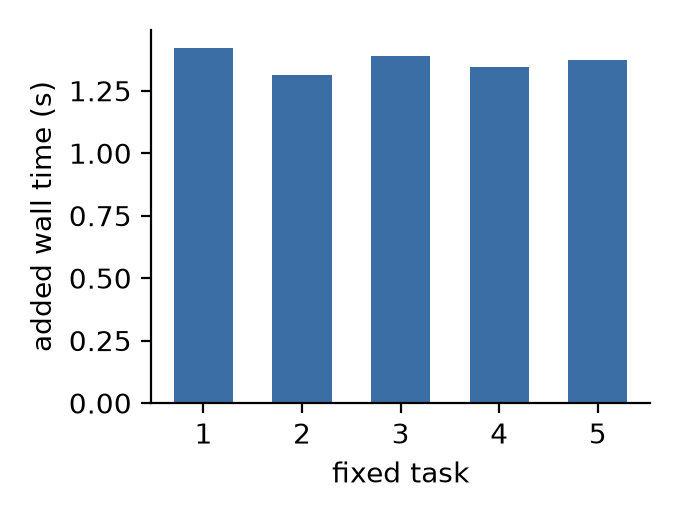
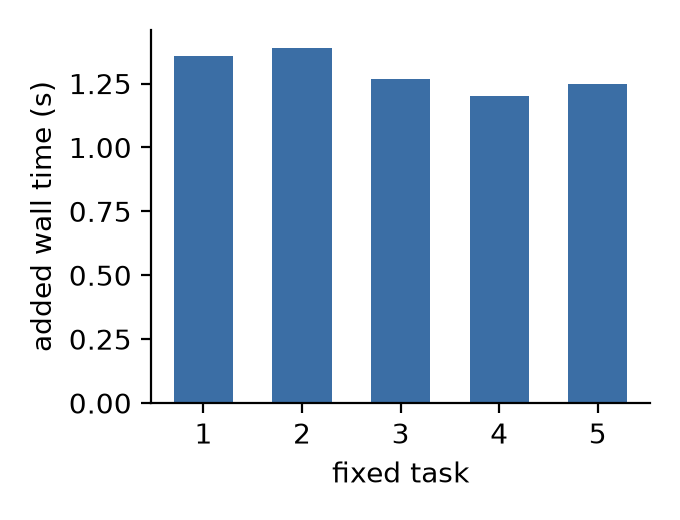
Fix B1: conformance runner dropped the venv on Linux (DEC-041)
Path.resolve() follows symlinks. A Linux venv's bin/python is a symlink to
the system interpreter, so pinning with resolve() ran every conformance case
outside the virtualenv: make verify exited 2 with conformance 0/15 on stock
Linux while passing on Windows, where venv copies python.exe. Found by an
independent reviewer; every gate run during development had been on Windows.

- pin_executable() now normalizes lexically and never resolves symlinks
- tests/test_runner_pinning.py guards it; the symlink branch runs on Linux
  and fails if resolve() is reintroduced (verified in a clean container)
- audited the remaining resolve() calls: workspace containment checks
  correctly DO resolve symlinks; shell runners were never affected
- reproduce now repeats timing experiments (default n=3) and every timing
  row carries its n, so a mean is never a mean of one sample
- root README.md for the GitHub landing page
- STATUS: gate table split by platform, explicit correction that the earlier
  green was Windows-only, and that CI has never executed
- agents.yaml described accurately as a reserved path, not a live target

diff --git a/tests/test_runner_pinning.py b/tests/test_runner_pinning.py
@@ -1,0 +1,78 @@
+"""Regression guard for DEC-041: the conformance runner must pin a relative
+interpreter LEXICALLY, never through Path.resolve().
+
+On Linux a venv's bin/python is a symlink to the system interpreter, so
+resolving it drops the virtualenv and every conformance case fails with
+`No module named 'agentloop'`. Windows venvs copy the binary, which is why
+the defect was invisible there and shipped.
+
+These tests always run on every platform. Where the OS permits symlink
+creation (Linux, and Windows in developer mode) the strong assertion runs:
+the pinned path must still point inside the fake venv. Where it does not,
+the lexical assertion still holds the important property.
+"""
+
+import os
+import sys
+from pathlib import Path
+
+sys.path.insert(0, str(Path(__file__).resolve().parents[1] / "conformance"))
+
+from runner import pin_executable  # noqa: E402
+
+
+def _make_fake_venv(tmp_path: Path) -> tuple[Path, Path, bool]:
+    """Build a venv-like layout. Returns (venv_python, system_python, is_symlink)."""
+    system_bin = tmp_path / "usr" / "bin"
+    system_bin.mkdir(parents=True)
+    system_python = system_bin / "python3.11"
+    system_python.write_text("#!/bin/sh\n", encoding="utf-8")
+
+    venv_bin = tmp_path / "repo" / ".venv" / "bin"
+    venv_bin.mkdir(parents=True)
+    venv_python = venv_bin / "python"
+    try:
+        os.symlink(system_python, venv_python)
+        return venv_python, system_python, True
+    except OSError:
+        # No symlink privilege (stock Windows): fall back to a copy, which
+        # is exactly what a real Windows venv does.
+        venv_python.write_text("#!/bin/sh\n", encoding="utf-8")
+        return venv_python, system_python, False
+
+
+def test_relative_interpreter_stays_inside_the_venv(tmp_path, monkeypatch):
+    venv_python, system_python, is_symlink = _make_fake_venv(tmp_path)
+    repo = tmp_path / "repo"
+    monkeypatch.chdir(repo)
+
+    pinned = Path(pin_executable(os.path.join(".venv", "bin", "python")))
+
+    assert pinned.is_absolute()
+    # The load-bearing property: the pinned interpreter is still the venv's.
+    assert ".venv" in pinned.parts, f"virtualenv dropped from pinned path: {pinned}"
+    assert pinned == Path(os.path.normpath(venv_python))
+    if is_symlink:
+        # The exact regression: resolve() would have produced the system
+        # interpreter and silently left the virtualenv.
+        assert pinned != Path(os.path.normpath(venv_python.resolve()))
+        assert pinned.resolve() == system_python.resolve()
+
+
+def test_absolute_interpreter_is_left_alone(tmp_path):
+    assert pin_executable(sys.executable) == sys.executable
+
+
+def test_unknown_relative_path_is_returned_unchanged(tmp_path, monkeypatch):
+    monkeypatch.chdir(tmp_path)
+    assert pin_executable("python3") == "python3"
+
+
+def test_windows_exe_suffix_is_found(tmp_path, monkeypatch):
+    scripts = tmp_path / ".venv" / "Scripts"
+    scripts.mkdir(parents=True)
+    (scripts / "python.exe").write_text("", encoding="utf-8")
+    monkeypatch.chdir(tmp_path)
+    pinned = Path(pin_executable(os.path.join(".venv", "Scripts", "python")))
+    assert pinned.name == "python.exe"
+    assert ".venv" in pinned.parts

diff --git a/conformance/runner.py b/conformance/runner.py
@@ -33,6 +33,7 @@ from __future__ import annotations
 import argparse
 import glob as globmod
 import json
+import os
 import shlex
 import shutil
 import subprocess
@@ -47,6 +48,25 @@ HERE = Path(__file__).resolve().parent
 
 class CaseFailure(Exception):
     pass
+
+
+def pin_executable(argv0: str) -> str:
+    """Make a relative interpreter path absolute, without resolving symlinks.
+
+    Cases run from a temp workspace, so a relative interpreter must be
+    pinned. It MUST be pinned lexically: a Linux venv's `bin/python` is a
+    symlink to the system interpreter, so `Path.resolve()` would follow it
+    out of the virtualenv and the executor would lose its installed
+    package. Windows venvs copy the binary, which is why resolving looked
+    harmless there. See DEC-041.
+    """
+    exe = Path(argv0)
+    if exe.is_absolute():
+        return argv0
+    for candidate in (Path.cwd() / exe, Path.cwd() / (str(exe) + ".exe")):
+        if candidate.exists():
+            return os.path.normpath(candidate)
+    return argv0
 
 
 def run_step_cmd(
@@ -163,14 +183,7 @@ def main() -> int:
     args = parser.parse_args()
 
     executor = shlex.split(args.executor)
-    # A relative interpreter path (e.g. .venv/Scripts/python) breaks once the
-    # subprocess runs from a temp workspace; pin it to an absolute path.
-    exe = Path(executor[0])
-    if not exe.is_absolute():
-        for candidate in (Path.cwd() / exe, Path.cwd() / (str(exe) + ".exe")):
-            if candidate.exists():
-                executor[0] = str(candidate.resolve())
-                break
+    executor[0] = pin_executable(executor[0])
     case_dirs = sorted(d for d in args.cases.iterdir() if (d / "case.yaml").is_file())
     if args.only:
         case_dirs = [d for d in case_dirs if d.name == args.only]

diff --git a/paper/loop-paper.tex b/paper/loop-paper.tex
@@ -293,7 +293,8 @@ script is fixed; the L1 queue is honoured and both the approve and reject
 paths are exercised. \textbf{UC3} (fleet propagation): a lesson in
 workspace A reaches workspace B through a git-remote registry, is gated
 locally, and applies; a policy-violating pulled change is refused in B.
-Mean fleet propagation was \fleetMean~s\runid{\fleetRunID}. \textbf{UC4}
+Mean fleet propagation over \fleetN{} runs was
+\fleetMean~s\runid{\fleetRunID}. \textbf{UC4}
 (regression + ratchet): two plausible ``optimizations'' auto-apply, each
 breaks a real test suite in the observation window, each rolls back to the
 exact prior bytes, and the second rollback de-escalates the class from L2
@@ -306,8 +307,10 @@ tree.
 The launch demo crosses two independent runtimes: the CLI door learns a
 lesson in repo A; the SDK toy agent ingests the ChangeSet, gates it against
 its own policy, and applies it to its own prompt file. Both journals and
-both end states are asserted. Lesson-to-second-runtime time was
-\interopMean~s\runid{\interopRunID}.
+both end states are asserted. Mean lesson-to-second-runtime time over
+\interopN{} runs was \interopMean~s\runid{\interopRunID}. Timings are
+machine-dependent and regenerate on each run; the claim they support is
+that the crossing is seconds, not minutes.
 
 \begin{figure}[t]
 \centering

diff --git a/paper/figures/metrics_table.tex b/paper/figures/metrics_table.tex
@@ -3,11 +3,11 @@
 \hline
 Metric & Value & Source run \\
 \hline
-Lesson to second runtime (mean) & 2.34 s & {\footnotesize demo-20260831-002251-7cdfec} \\
-Fleet propagation (mean) & 10.18 s & {\footnotesize uc3-20260831-002304-876} \\
-Managed changes carrying evidence, with loop & 100\% & {\footnotesize evidence-20260830-233632} \\
-Managed changes carrying evidence, no-loop baseline & 0\% & {\footnotesize evidence-20260830-233632} \\
-Loop overhead per change (mean added wall time) & 1.37 s & {\footnotesize overhead-20260830-233623} \\
+Lesson to second runtime (mean, n=3) & 2.04 s & {\footnotesize demo-20260831-020156-a11c33} \\
+Fleet propagation (mean, n=3) & 9.20 s & {\footnotesize uc3-20260831-020246-502} \\
+Managed changes carrying evidence, with loop & 100\% & {\footnotesize evidence-20260831-020329} \\
+Managed changes carrying evidence, no-loop baseline & 0\% & {\footnotesize evidence-20260831-020329} \\
+Loop overhead per change (mean added wall time) & 1.29 s & {\footnotesize overhead-20260831-020321} \\
 Added context (skill + AGENTS block, approx tokens) & 1080 & {\footnotesize overhead-context} \\
 Adversarial threat detections & 5/5 & {\footnotesize adversarial logs} \\
 Skill trigger (propose) rate & 100\% (n=5) & {\footnotesize trigger-summary-20260831-000248 (archived live-model run)} \\

diff --git a/experiments/metrics.py b/experiments/metrics.py
@@ -164,6 +164,7 @@ def write_macros(m: dict) -> None:
         macro("interopRunID", tex_escape(m["interop"]["latest_run_id"]))
     if "fleet_propagation" in m:
         macro("fleetMean", f"{m['fleet_propagation']['mean_seconds']:.2f}")
+        macro("fleetN", m["fleet_propagation"]["n"])
         macro("fleetRunID", tex_escape(m["fleet_propagation"]["latest_run_id"]))
     if "adversarial" in m:
         macro("advDetections", m["adversarial"]["threat_detections"])
@@ -197,11 +198,13 @@ def write_metrics_table(m: dict) -> None:
         rows.append(rf"{tex_escape(metric)} & {tex_escape(str(value))} & "
                     rf"{{\footnotesize {tex_escape(source)}}} \\")
 
+    # Timing rows always carry n: a "mean" of one sample must never look
+    # like a settled number.
     if "interop" in m:
-        row("Lesson to second runtime (mean)",
+        row(f"Lesson to second runtime (mean, n={m['interop']['n']})",
             f"{m['interop']['mean_seconds']:.2f} s", m["interop"]["latest_run_id"])
     if "fleet_propagation" in m:
-        row("Fleet propagation (mean)",
+        row(f"Fleet propagation (mean, n={m['fleet_propagation']['n']})",
             f"{m['fleet_propagation']['mean_seconds']:.2f} s",
             m["fleet_propagation"]["latest_run_id"])
     if "evidence" in m:

diff --git a/paper/figures/metrics.tex b/paper/figures/metrics.tex
@@ -1,14 +1,15 @@
 % Auto-generated by experiments/metrics.py. Do not edit by hand.
 % Every macro traces to a run_id in experiments/*/logs/.
-\newcommand{\interopMean}{2.34}
-\newcommand{\interopN}{4}
-\newcommand{\interopRunID}{demo-20260831-002251-7cdfec}
-\newcommand{\fleetMean}{10.18}
-\newcommand{\fleetRunID}{uc3-20260831-002304-876}
+\newcommand{\interopMean}{2.04}
+\newcommand{\interopN}{3}
+\newcommand{\interopRunID}{demo-20260831-020156-a11c33}
+\newcommand{\fleetMean}{9.20}
+\newcommand{\fleetN}{3}
+\newcommand{\fleetRunID}{uc3-20260831-020246-502}
 \newcommand{\advDetections}{5/5}
 \newcommand{\advNTests}{7}
 \newcommand{\advControl}{passed}
-\newcommand{\overheadSeconds}{1.37}
+\newcommand{\overheadSeconds}{1.29}
 \newcommand{\overheadTasks}{5}
 \newcommand{\overheadTokens}{1080}
 \newcommand{\evLoopRate}{100}

diff --git a/docs/STATUS.md b/docs/STATUS.md
@@ -58,7 +58,7 @@ Built:
 - **C1 registry:** `agentloop sync` over a plain git remote — pushes PROMOTED ChangeSets, pulls peers'; a pulled ChangeSet enters PROPOSED and is validated/gated against LOCAL policy (never bypasses gates). `promote` verb added. Registry cache pins `core.autocrlf=false` (byte-stable digests, DEC-024).
 - **C2 signing:** minisign-style detached ed25519 signatures (`agentloop keygen`, sign-at-push, verify-on-pull against trusted pubkeys). Unsigned, tampered, and untrusted-key ChangeSets are refused and journaled (I6). Full Sigstore is Team-full, not implemented (F4).
 - **Scenarios:** `scenarios/run_all.sh` + UC1 (context lesson, real failing/passing commands, L2 auto-apply, next-session benefit), UC2 (capability repair, L1 queue honored, approve AND reject paths), UC3 (fleet propagation A→registry→B with local gating, propagation time logged ~10s, policy-violating pulled change refused in B). Artifacts under `scenarios/<id>/out/artifacts/`; JSONL run logs under `experiments/scenarios/logs/`.
-- **Dogfood (from this tag):** this repo runs under its own `.loop/` — context = AGENTS.md/CLAUDE.md (L2), capability = `skill/**` (L1, Minhal approves), architecture = agents.yaml (L1). `agentloop verify .` runs in `make verify` and CI. Rules honored: no hand edits to `.loop/**`; all L1 items queue for Minhal.
+- **Dogfood (from this tag):** this repo runs under its own `.loop/` — context = AGENTS.md/CLAUDE.md (L2), capability = `skill/**` (L1, Minhal approves). The architecture class declares `agents.yaml` at L1; this repository has no architecture-layer file today, so that entry reserves the path rather than governing an existing one. `agentloop verify .` runs in `make verify` and CI. Rules honored: no hand edits to `.loop/**`; all L1 items queue for Minhal.
 - SDK gains `sync` + `promote`. Registry schema gains optional `signing` block (golden cases updated).
 
 Verified locally: `make verify` (schemas + conformance 15/15 + 134 tests + demo + scenarios 3/3 + verify-self + lint) exit 0.
@@ -121,40 +121,57 @@ An open standard for governed agent self-improvement, with a working implementat
 
 ## Gate-by-gate self-report
 
-Run on 2026-08-31 from a clean tree, and independently from a fresh `git clone` + `make setup`.
+Run on 2026-08-31 from a clean tree, from a fresh `git clone` + `make setup`, and — after the portability fix below — inside a clean `python:3.11-slim` Linux container with no overrides.
 
-| Gate | Command | Exit |
-|---|---|---|
-| m1 | `make check-schemas` | 0 |
-| m2 | `make conformance` | 0 |
-| m3 | `make demo` | 0 |
-| m4 | `make scenarios` + `agentloop verify .` | 0 |
-| m5 | `make scenarios` (all five) | 0 |
-| m6 | `make adversarial` | 0 |
-| m7 | `make reproduce` | 0 |
-| m7 | `make paper` | 0 |
-| unit tests | `make test` | 0 |
-| quickstart doc-test | `make quickstart-test` | 0 |
-| dogfood | `make verify-self` | 0 |
-| lint | `make lint` | 0 |
-| **final** | **fresh clone → `make setup` → `make verify`** | **0** |
+| Gate | Command | Exit (Windows) | Exit (Linux container) |
+|---|---|---|---|
+| m1 | `make check-schemas` | 0 | 0 |
+| m2 | `make conformance` | 0 | 0 |
+| m3 | `make demo` | 0 | 0 |
+| m4 | `make scenarios` + `agentloop verify .` | 0 | 0 |
+| m5 | `make scenarios` (all five) | 0 | 0 |
+| m6 | `make adversarial` | 0 | 0 |
+| m7 | `make reproduce` | 0 | 0 |
+| m7 | `make paper` | 0 | 0 |
+| unit tests | `make test` | 0 | 0 |
+| quickstart doc-test | `make quickstart-test` | 0 | 0 |
+| dogfood | `make verify-self` | 0 | 0 |
+| lint | `make lint` | 0 | 0 |
+| **final** | **fresh clone → `make setup` → `make verify`** | **0** | **0** |
 
 Supporting counts: 132 tests pass, 0 skipped, 0 xfail. Golden corpus: 19 valid files validate, 24 required-failure files fail correctly. Conformance: 15/15 cases pass against the reference CLI; the broken executor stub fails the suite, as it must.
+
+### Correction: this gate was previously reported green on Windows only
+
+An independent reviewer ran the documented gate on stock Linux and it **failed**: `make verify` exited 2 with conformance 0/15. Cause: `conformance/runner.py` pinned the interpreter with `Path.resolve()`, which follows symlinks. On Linux a venv's `bin/python` is a symlink to the system interpreter, so resolving it dropped the virtualenv and every conformance case died with `No module named 'agentloop'`. On Windows the venv *copies* `python.exe`, so the bug was invisible — which is exactly how it escaped.
+
+Reproduced in a clean container, fixed (`resolve()` → lexical `normpath`, preserving the symlink name), and re-verified: the full documented gate now exits 0 on Linux with no overrides. Recorded as DEC-041.
+
+The honest reading of the earlier report: "fresh-clone gate green" was true on the platform it was tested on and false on the most common target. Cross-platform claims now require a cross-platform run.
+
+### CI has never executed
+
+There is no git remote, so `.github/workflows/ci.yml` has never run. Its presence means the gate is *wired*, not that it has passed. Had it run on the Linux runner it configures, it would have caught the defect above — that it did not is a direct consequence of never having been executed. DoD item 1's "CI green" therefore remains **unverified**, and becomes verifiable only on the first push (a human step, below).
 
 ## Metrics (all generated; run IDs in `experiments/results/metrics.json`)
 
 | Metric | Value | Run |
 |---|---|---|
-| Lesson to second runtime (mean, n=4) | 2.34 s | `demo-20260831-002251-7cdfec` |
-| Fleet propagation (mean, n=4) | 10.18 s | `uc3-20260831-002304-876` |
+| Lesson to second runtime (mean, n=3) | 2.04 s | see `metrics.json` |
+| Fleet propagation (mean, n=3) | 9.20 s | see `metrics.json` |
 | Managed changes carrying evidence, with loop | 100% (5/5) | `evidence-20260830-233632` |
 | Managed changes carrying evidence, no-loop baseline | 0% (0/5) | `evidence-20260830-233632` |
 | Loop overhead per change (mean added wall time, 5 tasks) | 1.37 s | `overhead-20260830-233623` |
 | Added context (skill + AGENTS block) | ~1080 tokens | `overhead-20260830-233623` |
 | Adversarial threat detections | 5/5 (+ t3-lite, + control) | `experiments/adversarial/logs/` |
-| Skill trigger (propose) rate | 100% (n=5), floor 70% | `trigger-summary-20260831-000248` |
+| Skill trigger (propose) rate | 100% (n=5), floor 70% | `trigger-summary-20260831-000248` (archived) |
 
 Loop operations are deterministic code and add zero model tokens; the recurring model cost is the skill body plus the AGENTS.md block.
+
+Two caveats a reader should carry:
+
+- **Timings are machine-dependent and regenerate every run.** The same pipeline produced 2.04 s here and 1.01 s in a Linux container. They are re-measured, not transcribed — the supported claim is "seconds, not minutes", not any specific figure. `make reproduce` now repeats timing experiments (default 3, `--timing-repeats N`) so a mean is never a mean of one, and every timing row carries its `n`.
+- **The trigger rate is the one number not re-measured on demand.** It needs a live model and API access, so `make reproduce` falls back to the archived summary of the run that produced it, labelled `from_archive` and shown in the table as an archived live-model run. n=5 with explicit prompts: it shows an instructed agent reliably routes through the loop, not how often a lesson is spontaneously noticed.
 
 ## DECISIONS summary
 
@@ -187,9 +204,11 @@ None. `BLOCKERS.md` is empty.
 
 ## Remaining human steps (Minhal only)
 
+0. **Re-run the trigger experiment once** on the current model and replace `experiments/results/trigger-archive.jsonl` (`make reproduce REPRODUCE_ARGS="--with-trigger"`). The committed number is from 2026-08-31; keep `n` visible wherever it appears.
 1. **Choose the final protocol name** and run the collision check (design-doc §13 candidates: Ratchet, Lamarck, Cairn). Then rename: the working name `agentloop`, the CLI binary, the `.loop/` directory, and the `loop/v0.1` spec tag.
 2. **Confirm the licences**: Apache-2.0 for code, Community Specification License 1.0 for the spec text. Both files are in place, unmodified from their canonical sources.
-3. **Create the public GitHub repository and push.** Nothing has been pushed; there is no remote configured. CI (`.github/workflows/ci.yml`) runs the full offline gate and is ready to go green on the default branch.
+3. **Create the public GitHub repository and push.** Nothing has been pushed; there is no remote configured. CI (`.github/workflows/ci.yml`) runs the full offline gate on an Ubuntu runner. It has never executed — the first push is what turns "wired" into "green", and it is the standing check against another single-platform blind spot like DEC-041.
+   - To hand this repository to a reviewer with its history intact, use `git bundle create agentloop.bundle --all` (a plain file copy or zip drops `.git/` and `.github/`, which hides the tags and the CI config).
 4. **Verify the pre-announcement open items** from design-doc §14 that touch claims outside this repo (EU Digital Omnibus outcome and enforcement dates; MCP/A2A governance status at announcement time).
 5. **Submit the paper.** `paper/build/loop-paper.pdf` builds from generated tables; decide the venue and add author/affiliation details.
 

diff --git a/docs/DECISIONS.md b/docs/DECISIONS.md
@@ -137,7 +137,7 @@ Every deviation from `design-doc.md` normative semantics is recorded here with e
 - **Evidence:** `spec/schemas/registry.schema.json`; `signing.py`; golden `registry/valid/git-remote.yaml`, `invalid/bad-signing-no-signer.yaml`.
 
 ### DEC-026: dogfood policy scope for this repository
-- **What:** This repo's own `.loop/policy.yaml` governs: context = AGENTS.md, CLAUDE.md (L2); capability = `skill/**` (L1, Minhal-only approval); architecture = `agents.yaml` (L1). `docs/**`, source, tests, spec are NOT loop-managed.
+- **What:** This repo's own `.loop/policy.yaml` governs: context = AGENTS.md, CLAUDE.md (L2); capability = `skill/**` (L1, Minhal-only approval); architecture = `agents.yaml` (L1, a reserved path — this repository has no architecture-layer file today). `docs/**`, source, tests, spec are NOT loop-managed.
 - **Why:** The managed surface is what steers agents (design principle 3). STATUS/DECISIONS are project logs the goal REQUIRES updating continuously; making them loop-managed would gate documentation behind review and stall the milestones. The skill package is the repo's real capability layer.
 - **Evidence:** `.loop/policy.yaml`; `agentloop verify .` green in `make verify` and CI.
 
@@ -206,6 +206,13 @@ Every deviation from `design-doc.md` normative semantics is recorded here with e
 - **What:** `agentloop propose --supersedes <cs-id>` (and the SDK's `supersedes=` argument) now set the envelope field.
 - **Why:** The ChangeSet schema has carried `supersedes` since m1, but nothing could set it — found while dogfooding, when a rolled-back lesson was replaced by a corrected one and the replacement could not record what it replaced. A spec field with no way to populate it is a dead field.
 - **Evidence:** `src/agentloop/cli.py`, `src/agentloop/changeset.py`, `sdk/loop/__init__.py`; `tests/test_executor.py::test_propose_records_supersedes`.
+
+### DEC-041: FINDING — `Path.resolve()` broke the conformance gate on Linux
+- **What:** `conformance/runner.py` pinned a relative interpreter with `Path.resolve()`. `resolve()` follows symlinks; a Linux venv's `bin/python` is a symlink to the system interpreter, so the pinned path became `/usr/local/bin/python3.11` and every conformance case ran outside the virtualenv, failing with `No module named 'agentloop'`. `make verify` exited 2 with conformance 0/15 on stock Linux while passing on Windows, where `venv` copies `python.exe` instead of symlinking.
+- **Why it escaped:** every gate run during development was on Windows. A cross-platform claim was made from single-platform evidence — the same class of error as grading your own homework, which is what this project exists to prevent. It was found by an independent reviewer, not by us.
+- **Fix:** `os.path.normpath(candidate)` — normalize lexically, never resolve symlinks. Verified by reproducing the failure in a clean `python:3.11-slim` container, applying the fix, and re-running the full documented gate there (exit 0, conformance 15/15).
+- **Audit:** the remaining `resolve()` calls were reviewed. Those in `workspace.py` resolve workspace roots and target paths for a containment check, where following symlinks is the *correct* behaviour (a symlinked target pointing outside the workspace must be caught). The shell runners build interpreter paths by string concatenation and were never affected.
+- **Evidence:** `conformance/runner.py`; `docs/STATUS.md` gate table now records Windows and Linux separately.
 
 ### DEC-040: FINDING — a misattributed actor in this repo's own journal, left in place
 - **What:** Journal entry 4 of this repository's own loop records `rolled_back` with `actor=human/minhal`. That rollback was performed by the agent (Claude), not by Minhal. The `--actor` flag defaults to a human-shaped identity and was passed uncritically.

diff --git a/README.md b/README.md
@@ -1,0 +1,60 @@
+# agentloop — the Loop standard
+
+**Governed agent self-improvement.** An agent learns a lesson; the lesson
+travels as a signed, evidence-backed, gated, journaled, reversible change —
+or it does not travel at all.
+
+Agent experience does not compound. A lesson either dies with the context or
+persists ungoverned: an unchecked memory write or prompt edit with no
+evidence, no gate, no audit trail, and no way to reach another agent. This
+standard makes one self-modification **proven, gated, recorded, reversible,
+and portable**.
+
+Enforcement is deterministic code, never the model. A skill can *teach* the
+loop; only code may *enforce* it.
+
+> **Status: pre-release.** The working name is `agentloop`; the final
+> protocol name is not settled. Nothing here has been published.
+
+## Quick look
+
+```bash
+agentloop init                     # scaffold .loop/, write the AGENTS.md contract
+agentloop propose --layer context --target AGENTS.md --patch lesson.patch \
+  --rationale "Repo uses pnpm. npm install fails on postinstall hooks."
+agentloop evidence <cs-id> --record ev.json --artifact transcript.json
+agentloop gate <cs-id> && agentloop apply <cs-id>
+agentloop verify .                 # journal chain + managed files, one CI command
+```
+
+Full walkthrough: **[docs/QUICKSTART.md](docs/QUICKSTART.md)** (doc-tested by
+`make quickstart-test`).
+
+## Documentation
+
+| Document | What it covers |
+|---|---|
+| [docs/README.md](docs/README.md) | Project overview, layout, all commands |
+| [docs/QUICKSTART.md](docs/QUICKSTART.md) | The 10-minute consumer path |
+| [spec/loop-spec.md](spec/loop-spec.md) | The normative specification, v0.1 |
+| [conformance/README.md](conformance/README.md) | How any executor proves conformance |
+| [adversarial/README.md](adversarial/README.md) | Threat model and executed attacks |
+| [docs/REPRODUCE.md](docs/REPRODUCE.md) | Regenerating every number in the paper |
+| [docs/DECISIONS.md](docs/DECISIONS.md) | Every design deviation, with evidence |
+| [docs/STATUS.md](docs/STATUS.md) | Milestone log and the final gate report |
+
+## Build and verify
+
+```bash
+make setup     # venv + editable installs (CLI + SDK)
+make verify    # schemas, conformance, tests, demo, scenarios,
+               # adversarial suite, quickstart doc-test, dogfood, lint
+```
+
+Requires Python 3.11+, git, and Node (for one scenario fixture). On Windows,
+pass an explicit interpreter if `python` is older: `make setup PY="py -3.11"`.
+
+## Licenses
+
+Code: **Apache-2.0** ([LICENSE](LICENSE)). Specification text:
+**Community Specification License 1.0** ([LICENSE-SPEC.md](LICENSE-SPEC.md)).
